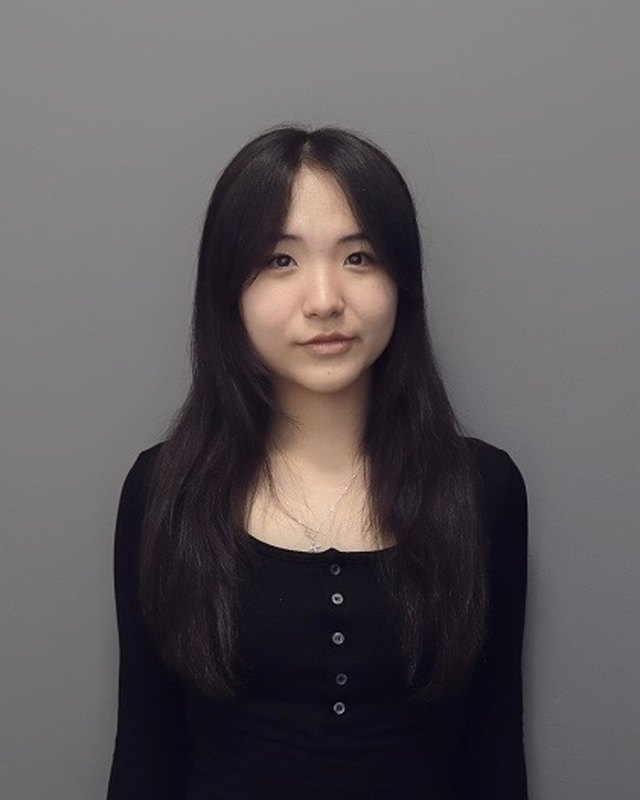
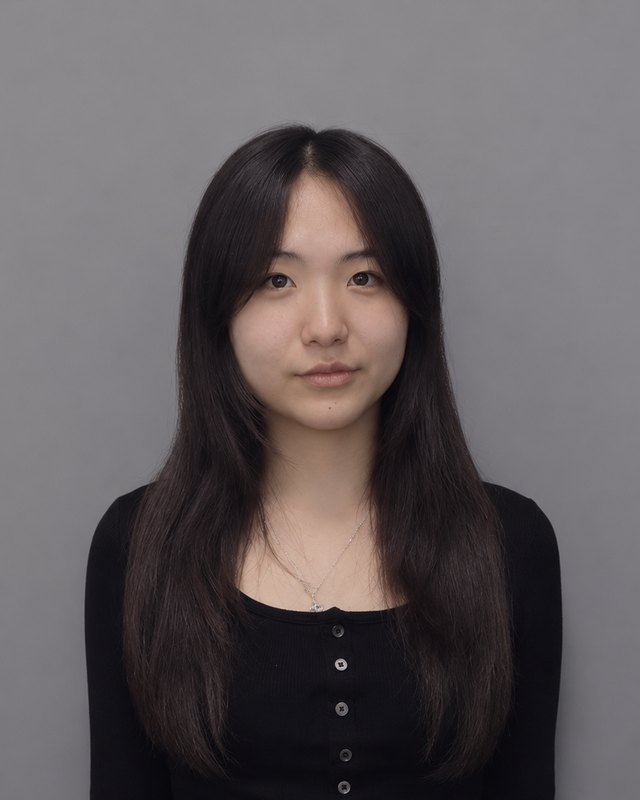
Founder photos: Allison's re-lit official photo; tighter matching crop
- Replace Allison's headshot with "Allison - Official.png" (founders' re-lit
  version, no color changes); re-crop Jason's from the same source.
- Both crops zoomed in ~1.3x (head to mid-chest), eye line 35% from the top,
  faces the same size (eye to chin); 640x800 JPG, no EXIF.
- og:url now points at each page instead of always the home page.
- Remove the daily scheduled rebuild: nothing on the site is date-based since
  the Chipotle cleanup.

Claude-Session: https://claude.ai/code/session_016ECcn6rEAfg41MdqzsDs9m

diff --git a/CLAUDE.md b/CLAUDE.md
@@ -34,6 +34,6 @@ Read this before every change. It is the only context you have about this organi
 - Mobile-friendly on every page. Check a 390px-wide phone layout.
 
 ## Placeholders still open
-- Donation link is live: https://www.zeffy.com/en-US/donation-form/support-heartlines-international (every Donate button points there, opening in a new tab). Founder photos are live again (Nov 11, 2026): matching "Official" headshots of Jason and Allison on the same gray background, cropped 4:5 at 640x800, EXIF stripped, Allison's face lighting evened to match Jason's; shown as rounded 4:5 `.headshot` images, and listed as `image` in the JSON-LD. Board row: Joshua Kim (photo still needed) and Hyungjun Ham (intentionally the placeholder) show images/team/profile-placeholder.svg as a 72px circle, smaller because those are supporting roles (Nov 6, 2026).
+- Donation link is live: https://www.zeffy.com/en-US/donation-form/support-heartlines-international (every Donate button points there, opening in a new tab). Founder photos are live (Nov 11, 2026): matching "Official" headshots of Jason and Allison on the same gray background (Allison's re-lit original from the founders, "Allison - Official.png", used as is with no color changes), cropped 4:5 at 640x800 with the same framing (head to mid-chest; eye line 35% from the top; both faces the same size, measured eye to chin), EXIF stripped; shown as rounded 4:5 `.headshot` images, and listed as `image` in the JSON-LD. Board row: Joshua Kim (photo still needed) and Hyungjun Ham (intentionally the placeholder) show images/team/profile-placeholder.svg as a 72px circle, smaller because those are supporting roles (Nov 6, 2026).
 - Instagram: https://www.instagram.com/heartlinesinternational/ (@heartlinesinternational).
 - Chipotle fundraiser held Nov 8, 2026 (Chipotle reports $92.71 for HINT from $370.84 in sales; check expected about Dec 10). Its site mentions and `src/_data/fundraiser.js` were removed in the Nov 10 cleanup. Keep the files in images/chipotle/ until the check arrives. Don't alter Chipotle's official flyer if it's ever added.
